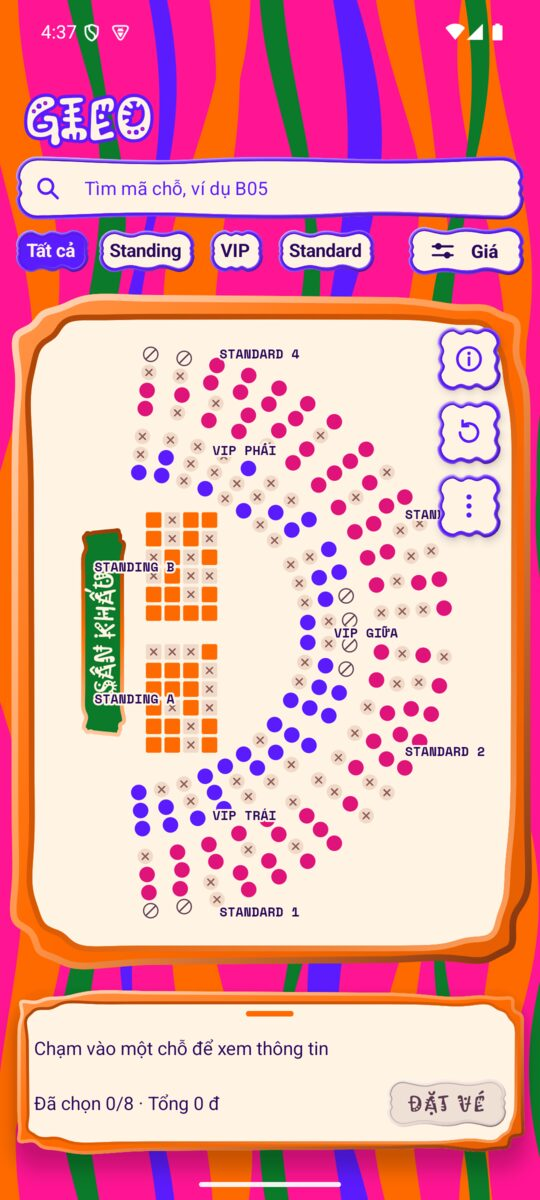
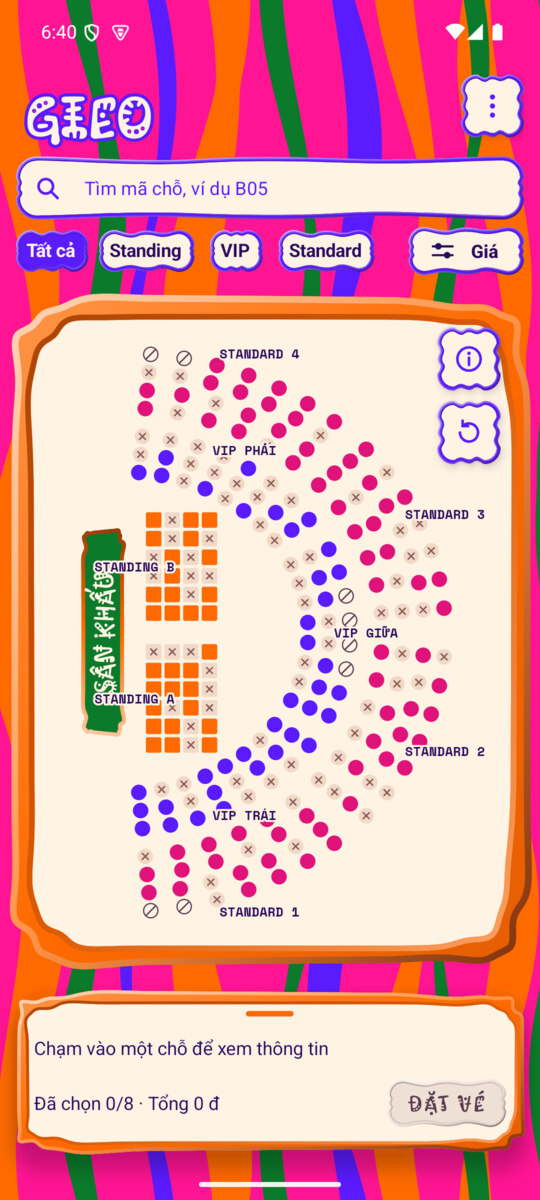
feat(ui): move reset menu above the search field

diff --git a/app/src/main/java/com/example/midtermproject/ui/MainActivity.java b/app/src/main/java/com/example/midtermproject/ui/MainActivity.java
@@ -2,6 +2,7 @@ package com.example.midtermproject.ui;
 
 import android.os.Bundle;
 import android.provider.Settings;
+import android.view.Gravity;
 import android.view.HapticFeedbackConstants;
 import android.view.View;
 import android.view.ViewGroup;
@@ -164,7 +165,7 @@ public class MainActivity extends AppCompatActivity
         // Nút ⋮ mở menu nhỏ (Q39); chọn "Làm mới dữ liệu" thì hỏi xác nhận trước (AC-8.1).
         final ImageButton moreButton = findViewById(R.id.btn_more);
         moreButton.setOnClickListener(v -> {
-            final PopupMenu menu = new PopupMenu(this, moreButton);
+            final PopupMenu menu = new PopupMenu(this, moreButton, Gravity.END);
             menu.inflate(R.menu.menu_map_more);
             menu.setOnMenuItemClickListener(item -> {
                 if (item.getItemId() == R.id.action_reset_data) {
